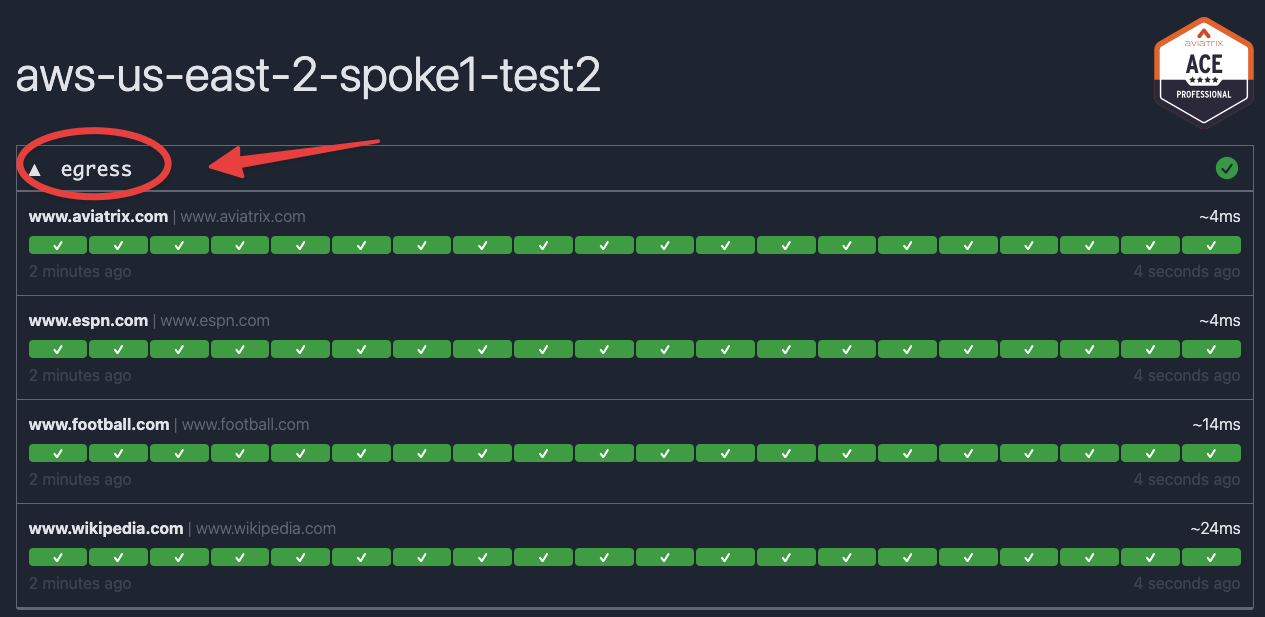
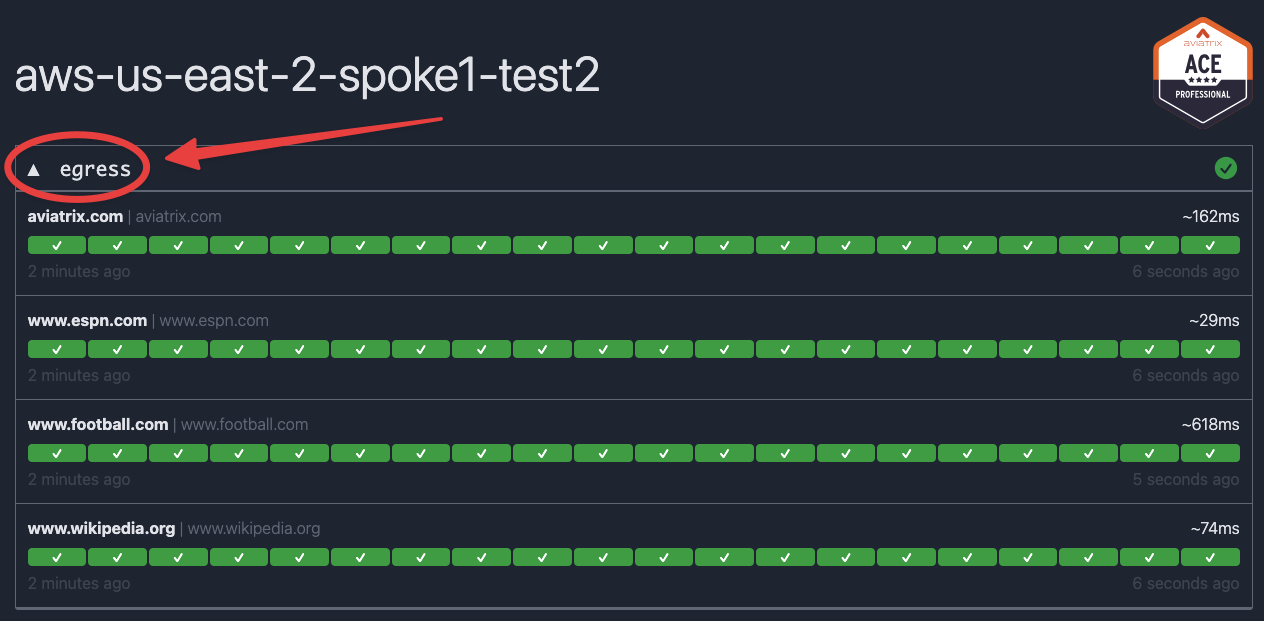
update for pro

diff --git a/ace_pro/docs/lab5.md b/ace_pro/docs/lab5.md
@@ -73,10 +73,10 @@ aws-us-east-2-spoke1-test2
 ```
 
 The private workload is generating traffic to **four** domains:
-1) www.aviatrix.com
+1) aviatrix.com
 2) www.espn.com
 3) www.football.com
-4) www.wikipedia.com
+4) www.wikipedia.org
 
 ```{figure} images/lab6-gatus501.png
 ---
@@ -126,16 +126,16 @@ Retrieve the private IP
 Now, launch the following curl commands:
 
 ```bash
-curl www.aviatrix.com
+curl -I https://aviatrix.com
 ```
 ```bash
-curl www.wikipedia.com
+curl -I https://www.espn.com
 ```
 ```bash
-curl www.espn.com
+curl -I https://www.football.com
 ```
 ```bash
-curl www.football.com
+curl -I https://www.wikipedia.org
 ```
 
 ```{figure} images/lab6-curl.png
@@ -143,7 +143,31 @@ curl www.football.com
 height: 400px
 align: center
 ---
-curl commands
+curl command-01
+```
+
+```{figure} images/lab6-curl02.png
+---
+height: 400px
+align: center
+---
+curl command-02
+```
+
+```{figure} images/lab6-curl03.png
+---
+height: 400px
+align: center
+---
+curl command-03
+```
+
+```{figure} images/lab6-curl04.png
+---
+height: 400px
+align: center
+---
+curl command-04
 ```
 
 ## 4. Aviatrix Cloud Firewall
